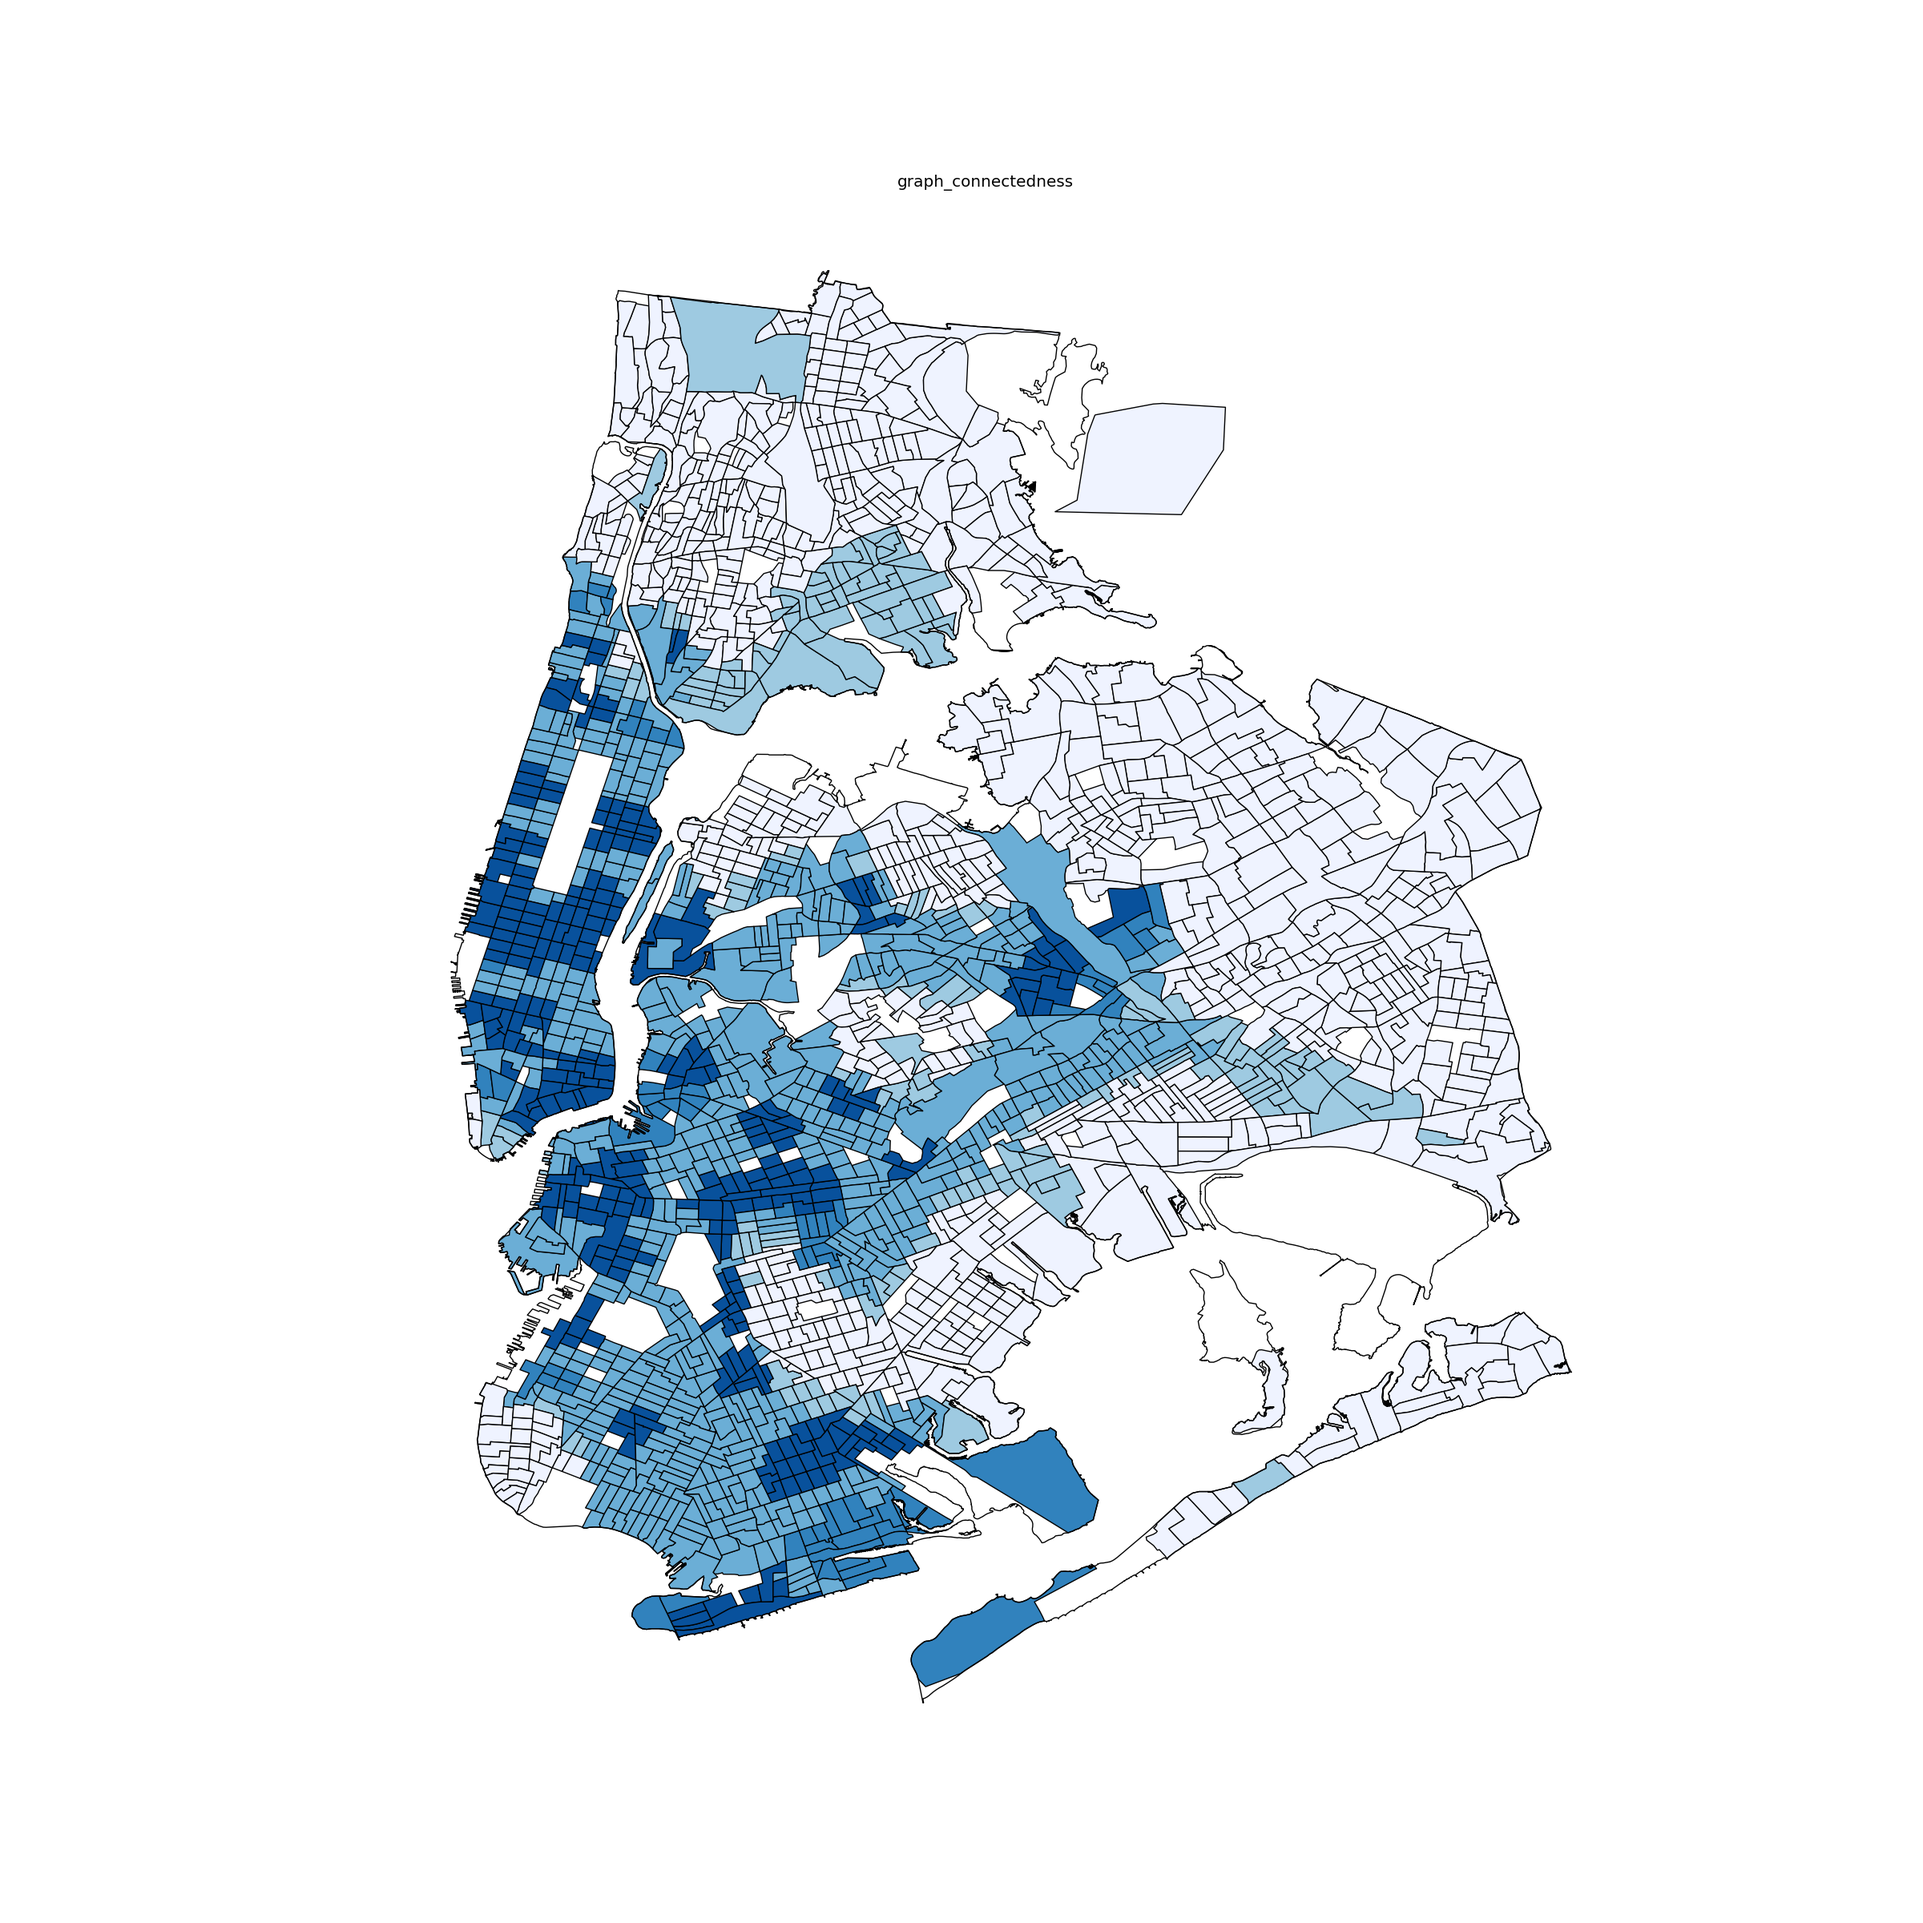
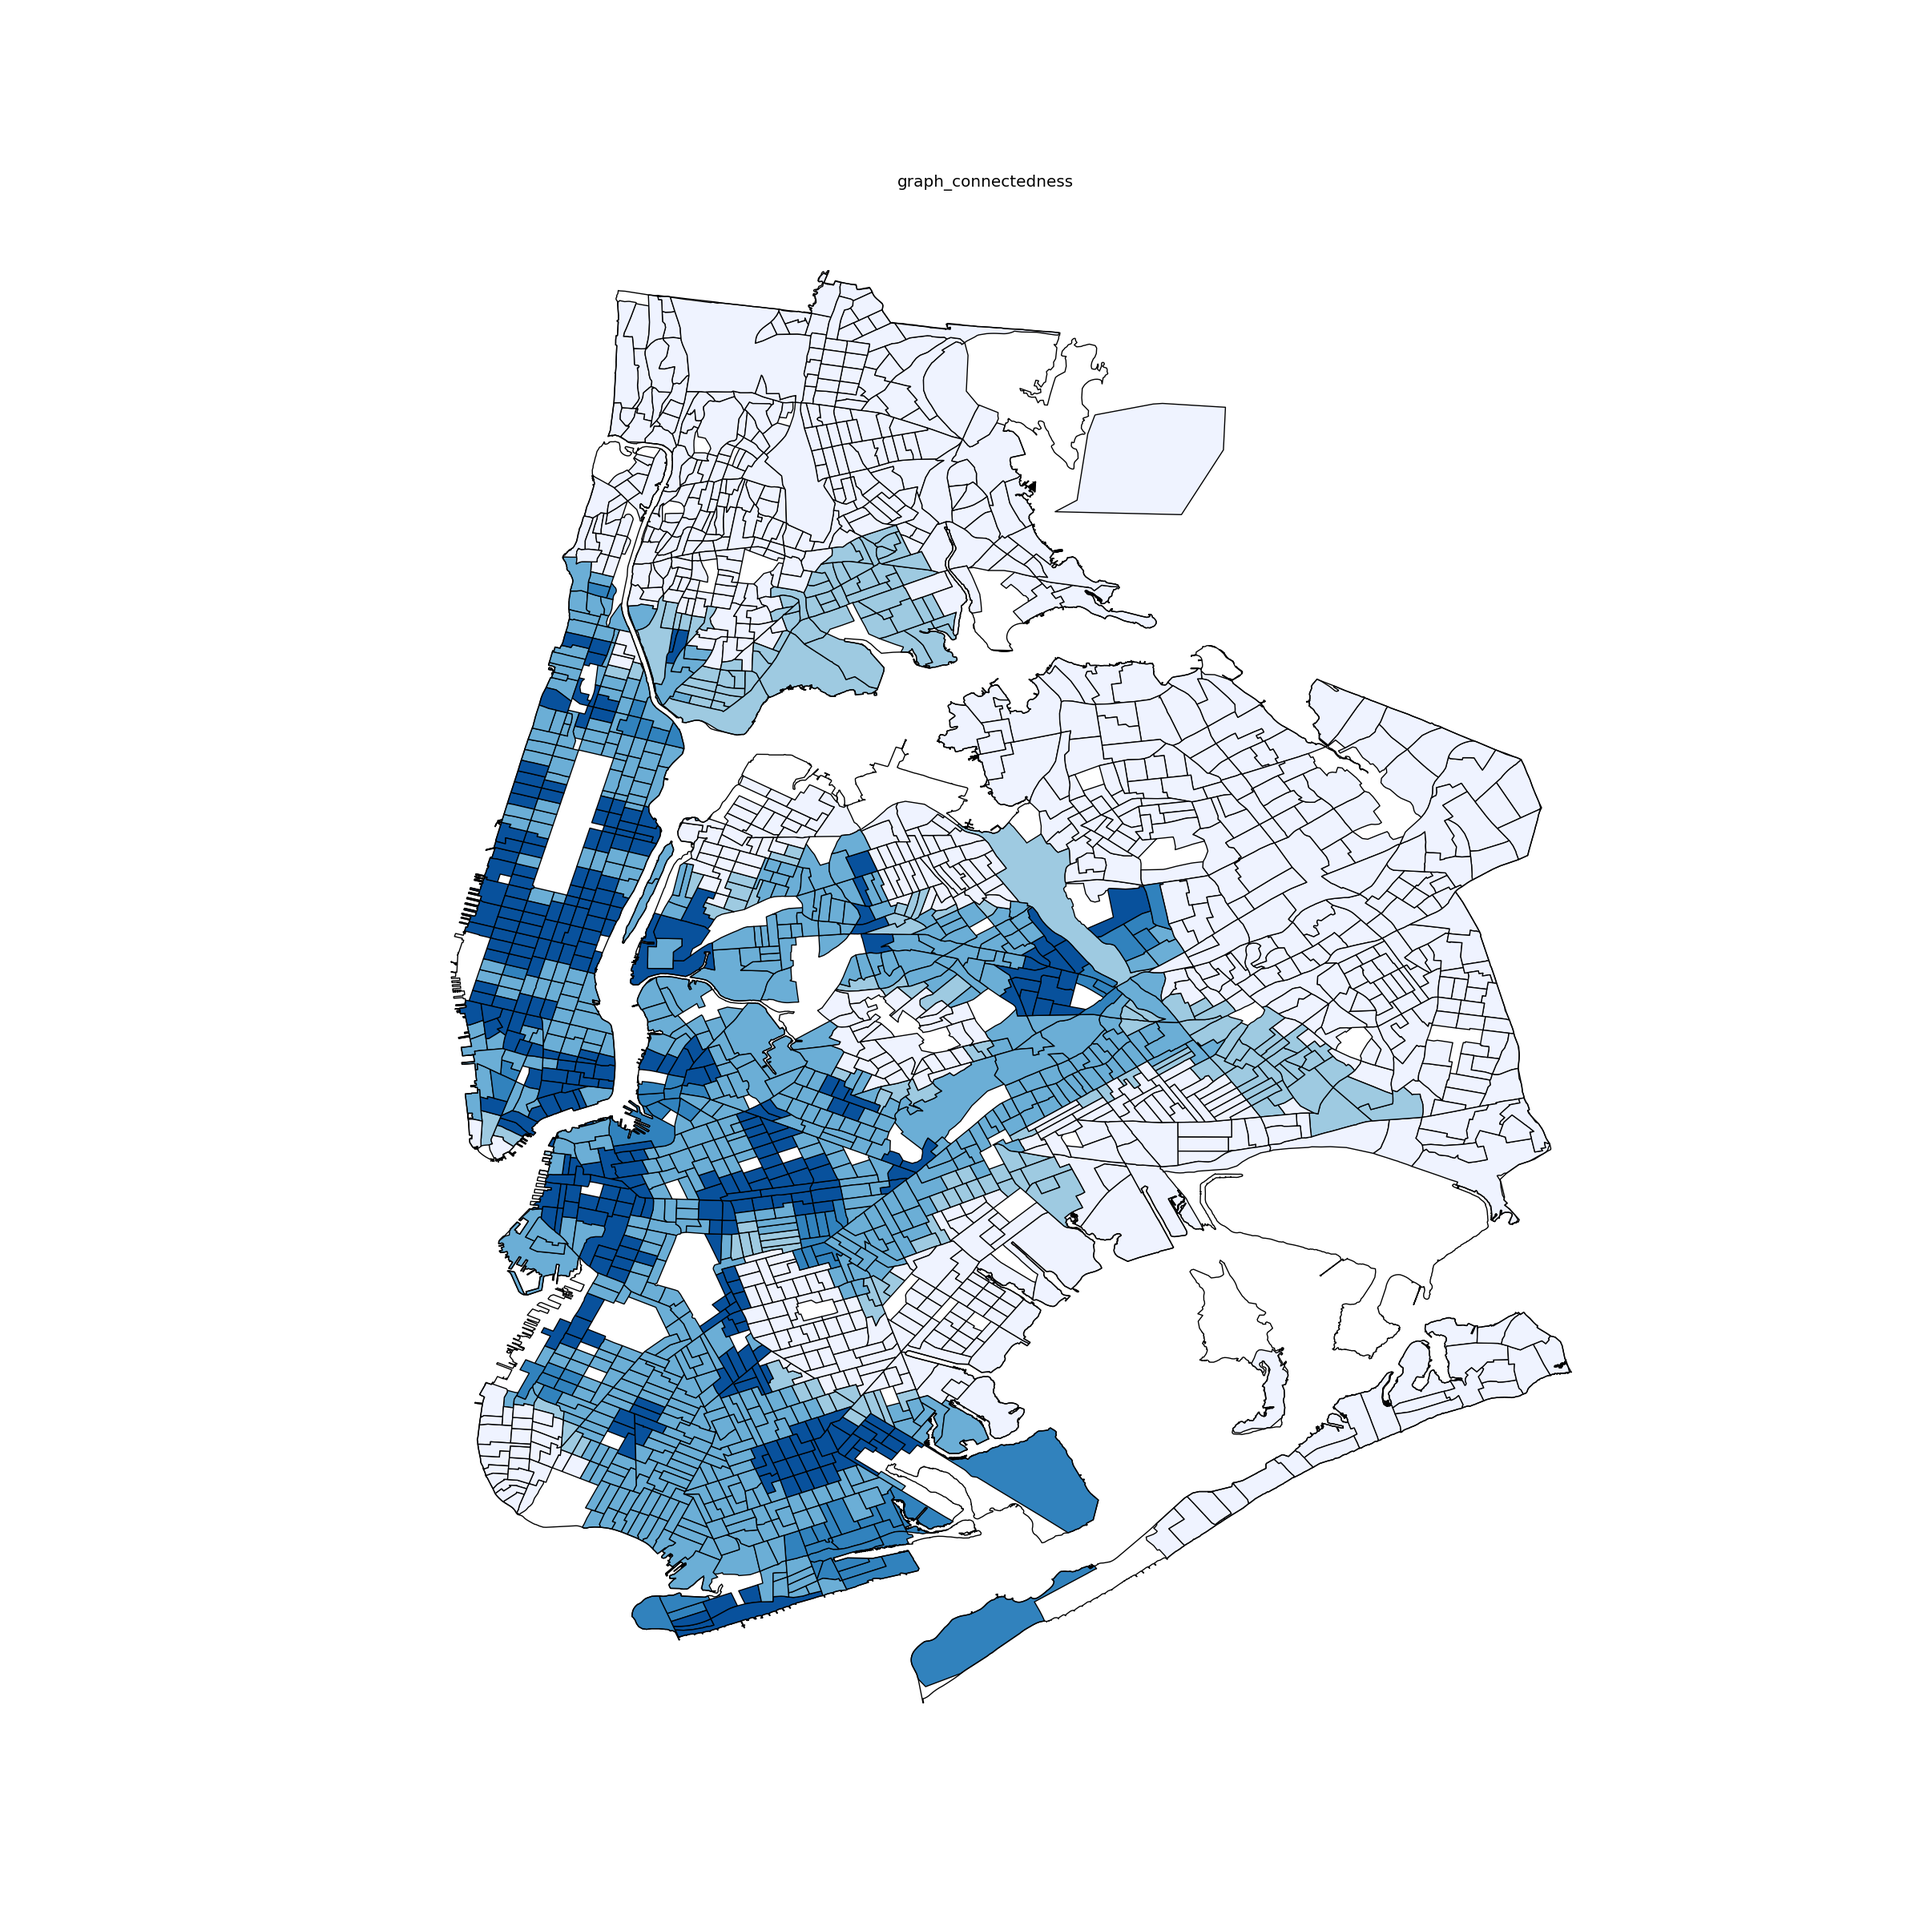
use sklearn nearest neighbor

diff --git a/tracts.py b/tracts.py
@@ -2,12 +2,16 @@ import pickle
 import rtree
 import numpy as np
 import pandas as pd
-from shapely.geometry import box
+from sklearn.neighbors import NearestNeighbors
+from shapely.geometry import Point
 
 import matplotlib.pyplot as plt
 
+from utils import nyc_boundary
+
 # load previously-generated data
-nyc = pickle.load(open('save/nyc.p','rb'))
+# nyc = pickle.load(open('save/nyc.p','rb'))
+nyc, boroughs, borough_names = nyc_boundary()
 tracts = pickle.load(open('save/tracts.p','rb'))
 stops = pickle.load(open('save/stops.p','rb'))
 
@@ -35,42 +39,49 @@ tracts = tracts.iloc[present]
 tracts['income'] = income
 tracts['lincome'] = np.log(tracts['income'])
 
-# # 
-idx = rtree.index.Index()
-for i in range(len(stops)):
-    stop = stops.iloc[i]
-    region = stop['region']
+# find center of bounding box
+tracts['x'] = np.tile(np.nan,len(tracts))
+tracts['y'] = np.tile(np.nan,len(tracts))
+for i in range(len(tracts)):
+    tract = tracts.iloc[i]
+    region = tract['region']
+    # set x,y = center of bbox
+    r,b,l,t = region.bounds
+    tracts['x'].iloc[i] = (r+l)/2
+    tracts['y'].iloc[i] = (b+t)/2
 
-    l,b,r,t = region.bounds
-    idx.insert(i,(l,b,r,t))
-    
-    # x,y = box(l,b,r,t).exterior.xy
-    # plt.plot(x,y)
-
+# match with closest stops
 tracts['v_area'] = np.tile(np.nan,len(tracts))
 tracts['v_larea'] = np.tile(np.nan,len(tracts))
 tracts['rolle_connectedness'] = np.tile(np.nan,len(tracts))
 tracts['graph_connectedness'] = np.tile(np.nan,len(tracts))
-tracts['borough'] = np.tile('',len(tracts))
-
-# match with closest stops
-n = 1
+# calculate nearest neighbors
+n = 2
+nbrs = NearestNeighbors(n_neighbors=n,
+        algorithm='ball_tree').fit(stops[['x','y']].values)
 for i in range(len(tracts)):
     tract = tracts.iloc[i]
 
     left,bottom,right,top = tract['region'].bounds
-    neighbors = list(idx.nearest((left,bottom,right,top),n))
-    tract_stops = stops.iloc[neighbors]
+    distances, indices = nbrs.kneighbors(tract[['x','y']].values)
+    tract_stops = stops.iloc[indices[0]]
 
     tracts['v_area'].iloc[i] = np.mean(tract_stops['v_area'])
     tracts['v_larea'].iloc[i] = np.mean(tract_stops['v_larea'])
     tracts['rolle_connectedness'].iloc[i] = np.mean(tract_stops['rolle_connectedness'])
     tracts['graph_connectedness'].iloc[i] = np.mean(tract_stops['graph_connectedness'])
-    tracts['borough'].iloc[i] = tract_stops['borough'].iloc[0]
-    same = tract_stops['borough']==tract_stops.iloc[0]['borough']
-    if sum(same) < len(tract_stops):
-        print tract_stops
+    
+# find which borough
+tracts['borough'] = np.tile(np.nan,len(tracts))
+tracts['borough'] = tracts['borough'].astype('string')
+for i in range(len(tracts)):
+    tract = tracts.iloc[i]
+    loc = Point(tract[['x','y']].values)
+    for key, value in boroughs.iteritems():
+        if value.contains(loc):
+            tracts['borough'].iloc[i] = borough_names[key]
 
 tracts['borough'] = pd.Categorical(tracts['borough'])
 tracts.index = np.arange(len(tracts))
+
 pickle.dump(tracts,open('save/tracts.p','wb'))

diff --git a/utils.py b/utils.py
@@ -1,4 +1,8 @@
 import numpy as np
+import fiona
+from shapely.geometry import MultiPolygon, Polygon
+from pyproj import transform, Proj
+
 def corr(x,y,k=0):
     if k > 0:
         x = x[:-k]
@@ -14,3 +18,62 @@ def corr(x,y,k=0):
         (y-ybar)**2 ))
     
     return r
+
+def nyc_boundary():
+    boroughs = {}
+    # maps BoroCode to categorical
+    borough_names = {5:'SI',4:'Q',3:'BK',1:'M',2:'BX'}
+    
+    with fiona.open('indata/nybb_13a/nybb.shp','r') as source:
+        # set up three projection types: boundary data start; google-standard
+        # lat/lon, using WGS84; Albers Equal Area
+        p1 = Proj(source.crs,preserve_units=True)
+        p2 = Proj({'proj':'longlat', 'datum':'WGS84'})
+        p3 = Proj({'proj':'aea', 'datum':'WGS84', 'lon_0':'-96'})
+    
+        # for each shape, convert its coordinates to AEA
+        nyc = MultiPolygon()
+        for borough in source:
+            borough_shapes = MultiPolygon()
+            borocode = borough['properties']['BoroCode']
+            for shape in borough['geometry']['coordinates']:
+                p1_points = np.array(shape[0])
+    
+                p2_points = transform(p1, p2, p1_points[:,0], p1_points[:,1])
+                p3_points = transform(p2, p3, p2_points[0], p2_points[1])
+                p3_points = np.vstack([p3_points[0], p3_points[1]]).T
+    
+                new = Polygon(p3_points)
+                nyc = nyc.union(new)
+                borough_shapes = borough_shapes.union(new)
+            boroughs[borocode] = borough_shapes
+    
+    # i = 0
+    # for shape in nyc:
+        # x,y = shape.exterior.xy
+        # plt.plot(x,y)
+    
+        # bounds = np.array(shape.bounds)
+        # bounds = bounds.reshape([2,2])
+        # cx = np.mean(bounds[:,0])
+        # cy = np.mean(bounds[:,1])
+    
+        # plt.text(cx,cy,str(i))
+        # i = i+1
+    # By running the above, we identify the following islands that contain subway stations:
+    #        i  borough            name
+    #   1.   3  staten island      staten island
+    #   2.  39  manhattan          manhattan
+    #   3.  36  manhattan          roosevelt island
+    #   4.  40  bronx              bronx
+    #   5.  10  brooklyn / queens  rockaways
+    #   6.  14  brooklyn / queens  jamaica bay wildlife refuge / broad channel
+    #   7.  15  brooklyn / queens  brooklyn / queens
+    # indices = [3, 39, 36, 40, 10, 14, 15]
+    indices = [39, 36, 40, 10, 14, 15]
+    boundary = []
+    for i in indices:
+        boundary.append(nyc[i])
+    nyc = MultiPolygon(boundary)
+
+    return nyc, boroughs, borough_names

diff --git a/voronoi.py b/voronoi.py
@@ -11,6 +11,8 @@ from networkx import Graph, all_neighbors
 
 import pickle
 
+from utils import nyc_boundary
+
 # #      Table of Contents
 # 1.     Import NYC boundary data, structured as a Shapely MultiPolygon
 # 2.     Import and manipulate subway stops data; filter Staten Island (not a subway)
@@ -33,61 +35,7 @@ transfers_collapse_flag = 0
 print "loading NYC boundary data..."
 
 # # 1. NYC boundary data
-boroughs = {}
-# maps BoroCode to categorical
-borough_names = {5:'SI',4:'Q',3:'BK',1:'M',2:'BX'}
-
-with fiona.open('indata/nybb_13a/nybb.shp','r') as source:
-    # set up three projection types: boundary data start; google-standard
-    # lat/lon, using WGS84; Albers Equal Area
-    p1 = Proj(source.crs,preserve_units=True)
-    p2 = Proj({'proj':'longlat', 'datum':'WGS84'})
-    p3 = Proj({'proj':'aea', 'datum':'WGS84', 'lon_0':'-96'})
-
-    # for each shape, convert its coordinates to AEA
-    nyc = MultiPolygon()
-    for borough in source:
-        borough_shapes = MultiPolygon()
-        borocode = borough['properties']['BoroCode']
-        for shape in borough['geometry']['coordinates']:
-            p1_points = np.array(shape[0])
-
-            p2_points = transform(p1, p2, p1_points[:,0], p1_points[:,1])
-            p3_points = transform(p2, p3, p2_points[0], p2_points[1])
-            p3_points = np.vstack([p3_points[0], p3_points[1]]).T
-
-            new = Polygon(p3_points)
-            nyc = nyc.union(new)
-            borough_shapes = borough_shapes.union(new)
-        boroughs[borocode] = borough_shapes
-
-# i = 0
-# for shape in nyc:
-    # x,y = shape.exterior.xy
-    # plt.plot(x,y)
-
-    # bounds = np.array(shape.bounds)
-    # bounds = bounds.reshape([2,2])
-    # cx = np.mean(bounds[:,0])
-    # cy = np.mean(bounds[:,1])
-
-    # plt.text(cx,cy,str(i))
-    # i = i+1
-# By running the above, we identify the following islands that contain subway stations:
-#        i  borough            name
-#   1.   3  staten island      staten island
-#   2.  39  manhattan          manhattan
-#   3.  36  manhattan          roosevelt island
-#   4.  40  bronx              bronx
-#   5.  10  brooklyn / queens  rockaways
-#   6.  14  brooklyn / queens  jamaica bay wildlife refuge / broad channel
-#   7.  15  brooklyn / queens  brooklyn / queens
-# indices = [3, 39, 36, 40, 10, 14, 15]
-indices = [39, 36, 40, 10, 14, 15]
-boundary = []
-for i in indices:
-    boundary.append(nyc[i])
-nyc = MultiPolygon(boundary)
+nyc, boroughs, borough_names = nyc_boundary()
 
 print "OK"
 

diff --git a/population.py b/population.py
@@ -8,9 +8,10 @@ import matplotlib.pyplot as plt
 
 import pickle
 
+from utils import nyc_boundary()
 
-# # 2.5 population data
-# read in census populatio data
+# # population data
+# read in census population data
 pops = read_csv('save/population')
 for i in range(len(pops)):
     tract = pops.ix[i]
@@ -44,10 +45,14 @@ tracts['region'] = tract_polygons
 tracts['geoid'] = geoids
 tracts['population'] = np.tile(np.nan, len(tracts))
 tracts['area'] = np.tile(np.nan, len(tracts))
+tracts.index = range(len(tracts))
 
-nyc = pickle.load(open('save/nyc.p','rb'))
+# # trim tracts to nyc
+# read in nyc boundary
+nyc = nyc_boundary()
 
 areas = []
+print 'Trimming tracts...'
 for i in range(len(tracts)):
     if i % 100 == 0:
         print i 
@@ -63,7 +68,6 @@ for i in range(len(tracts)):
 tracts['area'] = areas
 tracts['larea'] = np.log(tracts['area'])
 
-
 # match census tract geometry with population data
 for i in range(len(tracts)):
     tract = pops.iloc[i]
@@ -78,19 +82,3 @@ tracts['lpop_dens'] = np.log(tracts['pop_dens'])
 tracts = tracts[ tracts['population']!=0 ]
 
 pickle.dump(tracts,open('save/tracts.p','wb'))
-
-# plot
-fig = plt.figure(1,dpi=540,frameon=False)
-fig.set_size_inches(24,24)
-ax = fig.add_subplot(111)
-ax.axis('off')
-
-for i in range(len(tracts)):
-    tract = tracts.iloc[i]
-    minx,miny,maxx,maxy=tract['region'].bounds
-    bbox = box(minx,miny,maxx,maxy)
-    plt.plot(bbox.exterior.xy[0],bbox.exterior.xy[1],'k-')
-
-outname = 'save/plots/bboxes.png'
-plt.savefig(outname)
-plt.close()
